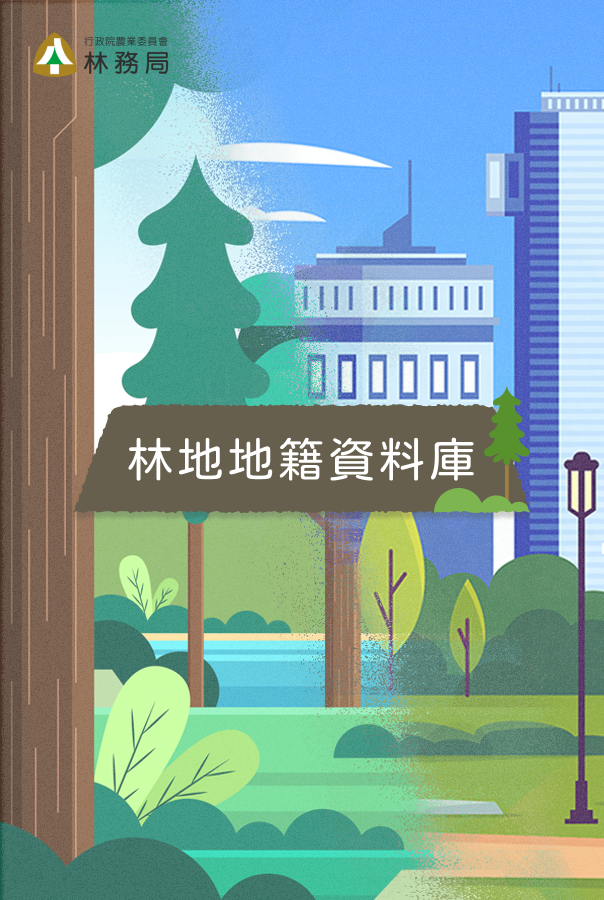
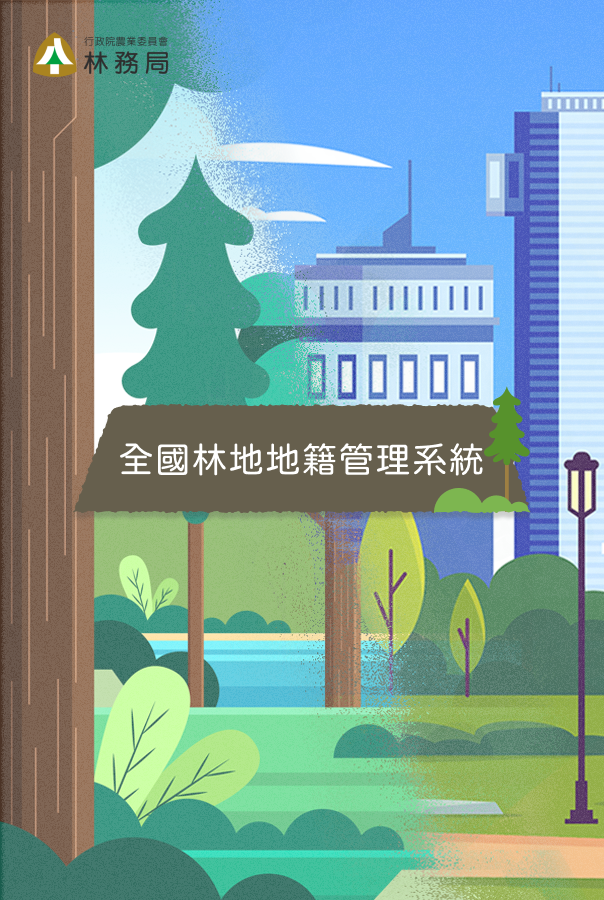
樣式更新

Changed region(s): [[0.2086, 0.4667, 0.8046, 0.56]]

diff --git a/auth_page.html b/auth_page.html
@@ -27,11 +27,11 @@
 <body style="background-color: #f9f9f9;" class="main_scroll">
 <div class="front">
 <div class="front_title">
-<img src="./image/logo1.png" width="180px" style="margin: 20px;">
+<!-- <img src="./image/logo1.png" width="180px" style="margin: 20px;"> -->
 
 </div>
    <div class="front_img">
-   <div class="front_title_text">林地地籍資料庫</div>
+   <!-- <div class="front_title_text">林地地籍資料庫</div> -->
    </div>
    
    <div class="login_area">
